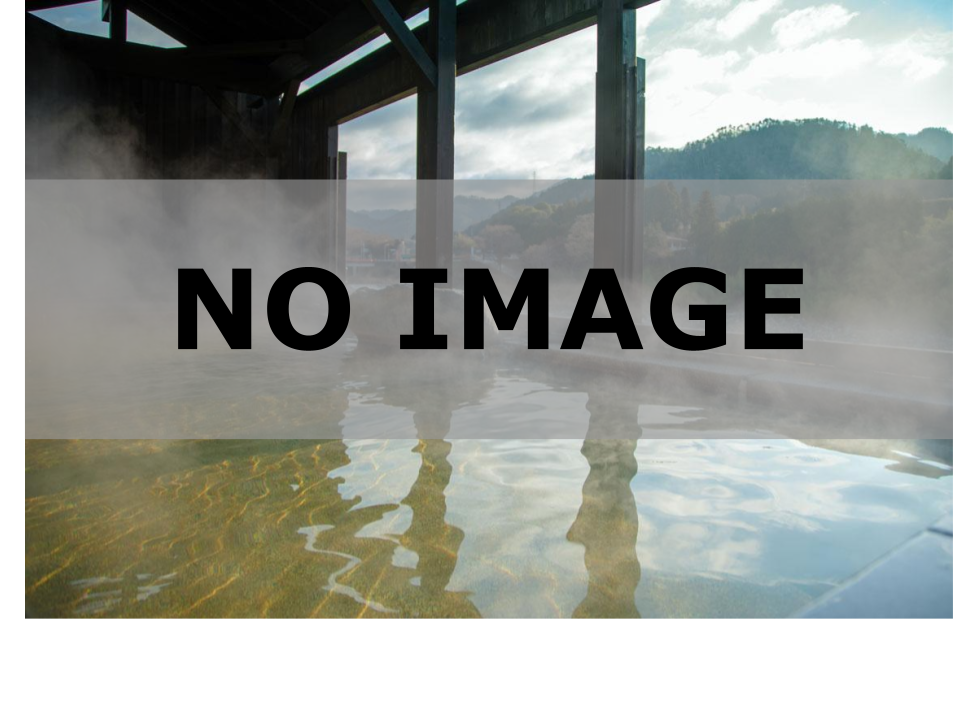
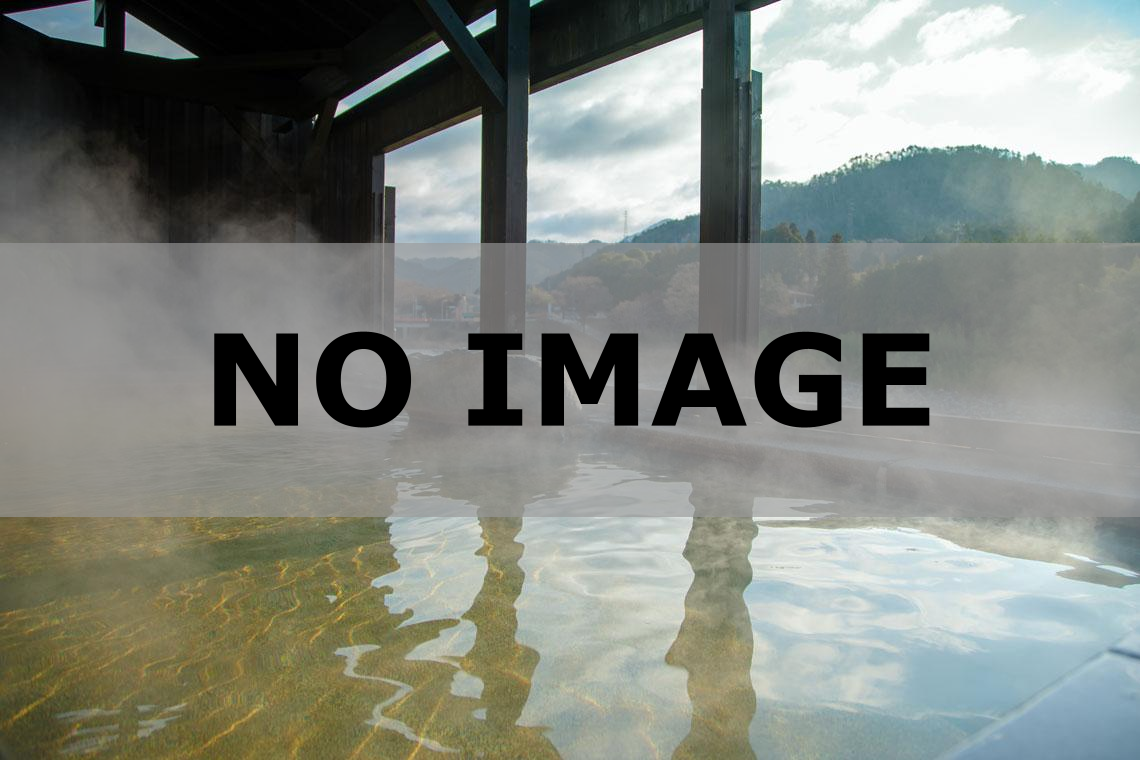
[change]Adjuest hotspring box size in hotspring index page

diff --git a/app/assets/stylesheets/custom.scss b/app/assets/stylesheets/custom.scss
@@ -212,28 +212,32 @@ input {
 
 .hotspring-box {
   margin-bottom: 24px;
-  width: 100%;
   background-color: #fff;
   display: flex;
   box-shadow: 0 2px 3px 0 rgba(0, 0, 0, .5);
-}
 
-.hotspring-left {
-  position: relative;
-  float: left;
-  width: 60%;
-}
-.hotspring-main-img-wrapper {
-    height: 100%;
+  .hotspring-left {
     position: relative;
-    z-index: 99;
-    display: block;
-    img {
-      height: 100%;
-      vertical-align: text-bottom;
-      position: absolute;
-      margin: auto;
-    }
+    float: left;
+    width: 60%;
+  }
+
+  .hotspring-main-img-wrapper {
+      width: 511px;
+      height: 347px;
+      position: relative;
+      z-index: 99;
+      display: block;
+      .hotspring-main-img {
+      }
+      img {
+        object-fit: cover;
+        height: 100%;
+        vertical-align: text-bottom;
+        position: absolute;
+        margin: auto;
+      }
+  }
 }
 
 
